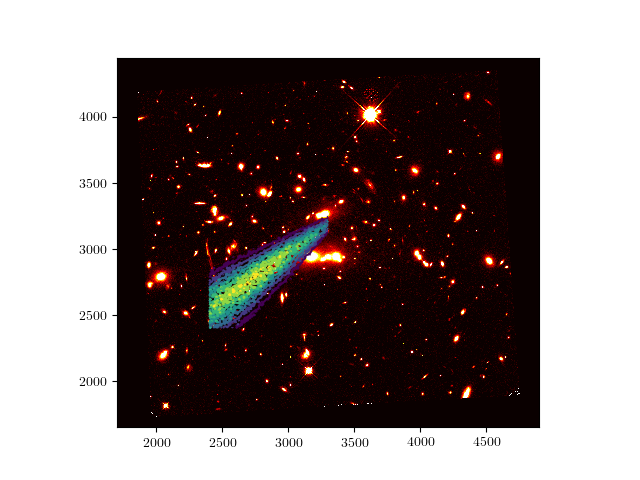
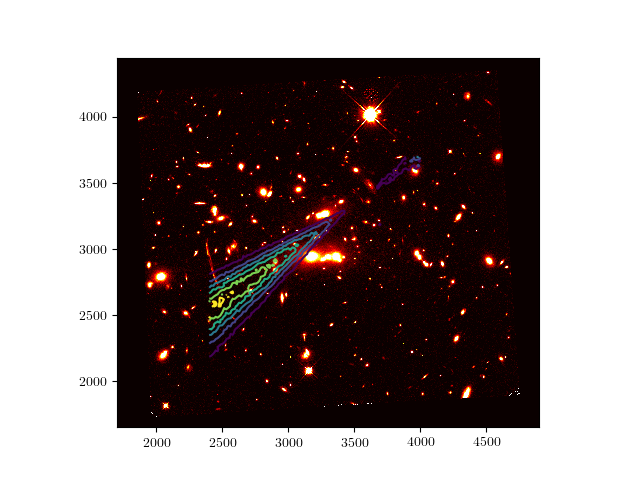
Fixed misunderstanind of xsource. Now fitting a 5 parameter model with xlens, ylens, theta, b, q. Optimising for the summed joint log-likelihoods of each image family. Correcting for redshift by calculating the angular distances and scaling the einstein radius by a factor of d_LS/d_S

Changed region(s): [[0.3125, 0.4375, 0.5312, 0.75], [0.5938, 0.3125, 0.6562, 0.4062]]

diff --git a/src/get_source_positions.py b/src/get_source_positions.py
@@ -5,10 +5,10 @@ from collections import OrderedDict
 from chainconsumer import ChainConsumer
 from src.mass_model import lnprob
 import matplotlib.pyplot as plt
-from image_overplot_contours import plot_image
+from src.image_overplot_contours import plot_image
 
 
-def run_mcmc(x_img, y_img, fig_dir, ndim=5, nwalkers=100, steps=200, prior_func=None, initial_params=None, fits_file=None, img_name=''):
+def run_mcmc(x_img, y_img, fig_dir, zl=None, zs=None, ndim=5, nwalkers=100, steps=200, prior_func=None, initial_params=None, fits_file=None, img_name=''):
 
     # Starting positions for the MCMC walkers sampled from a uniform distribution
     if initial_params is None:
@@ -23,7 +23,7 @@ def run_mcmc(x_img, y_img, fig_dir, ndim=5, nwalkers=100, steps=200, prior_func=
     p0 = np.transpose(list(initial.values()))
 
     # Run MCMC sampler with emcee
-    sampler = emcee.EnsembleSampler(nwalkers, ndim, lnprob, args=(x_img, y_img, prior_func))
+    sampler = emcee.EnsembleSampler(nwalkers, ndim, lnprob, args=(x_img, y_img, zl, zs, prior_func))
     pos, prob, state = sampler.run_mcmc(p0, steps)
 
     # Print chain
@@ -84,13 +84,13 @@ def lensed_quasar():
 
 def macs0451():
     fig_dir = 'Figures/MACS0451/'
-    nwalkers = 1000
-    steps = 2000
+    nwalkers = 1500
+    steps = 3000
 
-    # # ImageA Positions
-    # img_name = '_ImageA'
-    # x_img = np.array([2375.942110, 2378.5, 2379.816610, 2381.299088, 2384, 2385.927991, 2389.555816, 2457.694760, 2450.744242, 2442.833333, 2437.857924, 2433.064587, 2427.166666, 2424.099866, 2418.5, 2416.444081, 2462])
-    # y_img = np.array([3038.016677, 3024, 3012.367933, 2999.365293, 2983.5, 2970.435199, 2955.945319, 2737.545077, 2752.305849, 2766.166666, 2782.058508, 2795.293450, 2811.166666, 2823.079067, 2837.5, 2846.943113, 2728])
+    # ImageA Positions
+    img_name = '_ImageA'
+    x_img = np.array([2375.942110, 2378.5, 2379.816610, 2381.299088, 2384, 2385.927991, 2389.555816, 2457.694760, 2450.744242, 2442.833333, 2437.857924, 2433.064587, 2427.166666, 2424.099866, 2418.5, 2416.444081, 2462])
+    y_img = np.array([3038.016677, 3024, 3012.367933, 2999.365293, 2983.5, 2970.435199, 2955.945319, 2737.545077, 2752.305849, 2766.166666, 2782.058508, 2795.293450, 2811.166666, 2823.079067, 2837.5, 2846.943113, 2728])
 
     # # Image 1.1 Positions
     # img_name = '_Image1.1'
@@ -107,24 +107,24 @@ def macs0451():
     # x_img = np.array([3222.796159, 3227.700108])
     # y_img = np.array([3550.903781, 3542.180780])
 
-    # Image 3.1 Positions
-    img_name = '_Image3.1'
-    x_img = np.array([2933.063074, 3393.715824])
-    y_img = np.array([2943.400421, 3398.196336])
+    # # Image 3.1 Positions
+    # img_name = '_Image3.1'
+    # x_img = np.array([2933.063074, 3393.715824])
+    # y_img = np.array([2943.400421, 3398.196336])
 
 
 
     # Starting positions for the MCMC walkers sampled from a uniform distribution
     initial = OrderedDict()
-    initial[r'$x_{source}$'] = np.random.uniform(low=2400, high=3400, size=nwalkers)
-    initial[r'$y_{source}$'] = np.random.uniform(low=2400, high=3300, size=nwalkers)
+    initial[r'$x_{lens}$'] = np.random.uniform(low=2400, high=4000, size=nwalkers)
+    initial[r'$y_{lens}$'] = np.random.uniform(low=2000, high=3700, size=nwalkers)
     initial[r'$\theta$'] = np.random.uniform(low=-np.pi, high=np.pi, size=nwalkers)
-    initial[r'$b$'] = np.random.uniform(low=10, high=1500, size=nwalkers)
+    initial[r'$b$'] = np.random.uniform(low=10, high=2000, size=nwalkers)
     initial[r'$q$'] = np.random.uniform(low=0.2, high=1., size=nwalkers)
 
     def lnprior(pars):
         xsource, ysource, theta, b, q = pars
-        if (2400 < xsource < 3300) and (2400 < ysource < 3400) and (10 < b < 1500) and (-np.pi < theta < np.pi) and (0. < q < 1):
+        if (2400 < xsource < 4000) and (2000 < ysource < 3700) and (10 < b < 2000) and (-np.pi < theta < np.pi) and (0. < q < 1):
             return 0.0
         else:
             return -np.inf
@@ -136,67 +136,50 @@ def macs0451():
 
 def macs0451_multiple_sources():
     fig_dir = 'Figures/MACS0451/'
-    ndim, nwalkers = 17, 1000
-    steps = 2000
+    ndim, nwalkers = 5, 1500
+    steps = 3000
     img_name = '_multiple_sources'
+    zl = 0.43
 
-    x_img, y_img = {}, {}
+    x_img, y_img, zs = {}, {}, {}
     x_img['A'] = np.array([2375.942110, 2378.5, 2379.816610, 2381.299088, 2384, 2385.927991, 2389.555816, 2457.694760, 2450.744242, 2442.833333, 2437.857924, 2433.064587, 2427.166666, 2424.099866, 2418.5, 2416.444081, 2462])
     y_img['A'] = np.array([3038.016677, 3024, 3012.367933, 2999.365293, 2983.5, 2970.435199, 2955.945319, 2737.545077, 2752.305849, 2766.166666, 2782.058508, 2795.293450, 2811.166666, 2823.079067, 2837.5, 2846.943113, 2728])
+    zs['A'] = 2.01
 
     x_img['11'] = np.array([3557.178601, 3548.271886, 3541.407488])
     y_img['11'] = np.array([3363.943860, 3375.285957, 3385.515024])
+    zs['11'] = 2.06
 
-    x_img['62'] = np.array([3486.371962])
-    y_img['62'] = np.array([3069.305065])
+    # x_img['62'] = np.array([3486.371962])
+    # y_img['62'] = np.array([3069.305065])
+    # zl['62'] = 1.405
 
     x_img['41'] = np.array([3222.796159, 3227.700108])
     y_img['41'] = np.array([3550.903781, 3542.180780])
+    zs['41'] = 1.810
 
     x_img['31'] = np.array([2933.063074, 3393.715824])
     y_img['31'] = np.array([2943.400421, 3398.196336])
+    zs['31'] = 1.904
 
     # Starting positions for the MCMC walkers sampled from a uniform distribution
     initial = OrderedDict()
-    initial[r'${x_{source}}_A$'] = np.random.uniform(low=2700, high=4000, size=nwalkers)
-    initial[r'${y_{source}}_A$'] = np.random.uniform(low=2000, high=3700, size=nwalkers)
-    initial[r'$\theta_A$'] = np.random.uniform(low=-np.pi, high=np.pi, size=nwalkers)
-
-    initial[r'${x_{source}}_11$'] = np.random.uniform(low=2400, high=3300, size=nwalkers)
-    initial[r'${y_{source}}_11$'] = np.random.uniform(low=2400, high=3300, size=nwalkers)
-    initial[r'$\theta_11$'] = np.random.uniform(low=-np.pi, high=np.pi, size=nwalkers)
-
-    initial[r'${x_{source}}_62$'] = np.random.uniform(low=2400, high=3300, size=nwalkers)
-    initial[r'${y_{source}}_62$'] = np.random.uniform(low=2400, high=3300, size=nwalkers)
-    initial[r'$\theta_62$'] = np.random.uniform(low=-np.pi, high=np.pi, size=nwalkers)
-
-    initial[r'${x_{source}}_41$'] = np.random.uniform(low=2400, high=3400, size=nwalkers)
-    initial[r'${y_{source}}_41$'] = np.random.uniform(low=2400, high=3300, size=nwalkers)
-    initial[r'$\theta_41$'] = np.random.uniform(low=-np.pi, high=np.pi, size=nwalkers)
-
-    initial[r'${x_{source}}_31$'] = np.random.uniform(low=2400, high=3400, size=nwalkers)
-    initial[r'${y_{source}}_31$'] = np.random.uniform(low=2400, high=3300, size=nwalkers)
-    initial[r'$\theta_31$'] = np.random.uniform(low=-np.pi, high=np.pi, size=nwalkers)
-
-    initial[r'$b$'] = np.random.uniform(low=10, high=1500, size=nwalkers)
+    initial[r'$x_{lens}$'] = np.random.uniform(low=2400, high=4000, size=nwalkers)
+    initial[r'$y_{lens}$'] = np.random.uniform(low=2000, high=3700, size=nwalkers)
+    initial[r'$\theta$'] = np.random.uniform(low=-np.pi, high=np.pi, size=nwalkers)
+    initial[r'$b$'] = np.random.uniform(low=10, high=2000, size=nwalkers)
     initial[r'$q$'] = np.random.uniform(low=0.2, high=1., size=nwalkers)
 
     def lnprior(pars):
-        xsource_A, ysource_A, theta_A, xsource_11, ysource_11, theta_11, xsource_62, ysource_62, theta_62, \
-        xsource_41, ysource_41, theta_41, xsource_31, ysource_31, theta_31, b, q = pars
-        if (2700 < xsource_A < 4000) and (2000 < ysource_A < 3700)  and (-np.pi < theta_A < np.pi)\
-                and (2700 < xsource_11 < 4000)and (2400 < ysource_11 < 3300) and (-np.pi < theta_11 < np.pi) \
-                and (2700 < xsource_62 < 4000) and (2400 < ysource_62 < 3300) and (-np.pi < theta_62 < np.pi) \
-                and (2700 < xsource_41 < 4000) and (2400 < ysource_41 < 3400) and (-np.pi < theta_41 < np.pi) \
-                and (2700 < xsource_31 < 4000) and (2400 < ysource_31 < 3400) and (-np.pi < theta_31 < np.pi) \
-                and (10 < b < 1500) and (0. < q < 1):
+        xlens, ylens, theta, b, q = pars
+        if (2400 < xlens < 4000) and (2000 < ylens < 3700) and (-np.pi < theta < np.pi) and (10 < b < 2000) and (0. < q < 1):
             return 0.0
         else:
             return -np.inf
 
     fits_file = '/Users/danmuth/PycharmProjects/StrongLensing/data/MACS0451/MACS0451_F110W.fits'
 
-    run_mcmc(x_img, y_img, fig_dir, ndim=ndim, nwalkers=nwalkers, steps=steps, prior_func=lnprior, initial_params=initial, fits_file=fits_file, img_name=img_name)
+    run_mcmc(x_img, y_img, fig_dir, zl, zs, ndim=ndim, nwalkers=nwalkers, steps=steps, prior_func=lnprior, initial_params=initial, fits_file=fits_file, img_name=img_name)
 
 
 if __name__ == '__main__':

diff --git a/src/mass_model.py b/src/mass_model.py
@@ -1,41 +1,57 @@
 import numpy as np
+from astropy.cosmology import LambdaCDM
 
+
+def scale_einstein_radius(b, zl, zs, H0=70, Om0=0.3, Ode0=0.7):
+    if zl is None or zs is None:
+        return b
+
+    cosmo = LambdaCDM(H0=H0, Om0=Om0, Ode0=Ode0)
+    d_ls = cosmo.angular_diameter_distance_z1z2(zl, zs)
+    d_s = cosmo.angular_diameter_distance_z1z2(0, zs)
+    d_l = cosmo.angular_diameter_distance_z1z2(0, zl)
+
+    d = d_ls / d_s
+
+    return b / d.value
 
 
 def align_coords(x_in, y_in, pars, revert=False):
-    """ Change input coordinates (xin, yin) to be relative to the source (xmap, ymap) and then realign using theta. """
-    xsource, ysource, theta, b, q = pars
+    """ Change input coordinates (xin, yin) to be relative to the lens (xmap, ymap) and then realign using theta. """
+    xlens, ylens, theta, b, q = pars
 
     if revert is False:
-        xmap = x_in - xsource  # xmap is the image position wrt to Xsource at (0,0) in image plane
-        ymap = y_in - ysource
-        x = xmap * np.cos(theta) + ymap * np.sin(theta)  # Rotates coordinates from image plane to source plane
+        xmap = x_in - xlens  # xmap is the image position wrt to Xlens at (0,0) in image plane
+        ymap = y_in - ylens
+        x = xmap * np.cos(theta) + ymap * np.sin(theta)  # Rotates coordinates from image plane to lens plane
         y = ymap * np.cos(theta) - xmap * np.sin(theta)
     else:
-        xmap = x_in * np.cos(theta) - y_in * np.sin(theta)  # Rotates coordinates from source plane to image plane (Xsource is still at Origin)
+        xmap = x_in * np.cos(theta) - y_in * np.sin(theta)  # Rotates coordinates from lens plane to image plane (Xlens is still at Origin)
         ymap = y_in * np.cos(theta) + x_in * np.sin(theta)
-        x = xmap + xsource  # x is the deflection position but
-        y = ymap + ysource
+        x = xmap + xlens  # x is the deflection position but
+        y = ymap + ylens
 
     return x, y
 
 
-def deflections(x_img, y_img, pars):
+def deflections(x_img, y_img, zl, zs, pars):
     """ Calculate deflection using a mass model. Returns the calculated source positions. """
-    xsource, ysource = pars[0], pars[1]
+    xlens, ylens = pars[0], pars[1]
 
-    x, y = align_coords(x_img, y_img, pars, revert=False)  # Image positions rotated to source plane coordinates (wrt Xsource at (0,0))
-    xout, yout = sie_model(x, y, pars)  # Calculated deflection positions in source plane coordinates
-    x, y = align_coords(xout, yout, pars, revert=True)  # Calculated deflection positions in image plane coordinates (wrt Xsource at (0,0))
+    x, y = align_coords(x_img, y_img, pars, revert=False)  # Image positions rotated to lens plane coordinates (wrt Xlens at (0,0))
+    xout, yout = sie_model(x, y, zl, zs, pars)  # Calculated deflection positions in lens plane coordinates
+    x, y = align_coords(xout, yout, pars, revert=True)  # Calculated deflection positions in image plane coordinates (wrt Xlens at (0,0))
 
-    x_deflect, y_deflect = x - xsource, y - ysource  # Calculated deflection positions in image plane coordinates (actual pixel positions instead of wrt Xsource)
+    x_deflect, y_deflect = x - xlens, y - ylens  # Calculated deflection positions in image plane coordinates (actual pixel positions instead of wrt Xlens)
 
     return x_deflect, y_deflect
 
 
-def sie_model(x, y, pars):
+def sie_model(x, y, zl, zs, pars):
     """ Singular Isothermal Elliptical Mass model for lens. Returns the calculated source positions. """
-    xsource, ysource, theta, b, q = pars
+    xlens, ylens, theta, b, q = pars
+
+    b = scale_einstein_radius(b=b, zl=zl, zs=zs)
 
     r = np.sqrt(x ** 2 + y ** 2)
     if q == 1.:
@@ -49,42 +65,32 @@ def sie_model(x, y, pars):
     return xout, yout
 
 
-def pred_positions(x_img, y_img, pars):
+def pred_positions(x_img, y_img, zl, zs, pars):
     """ Predict the source positions by calculating the deflection. Returns the diff between img pos and deflections"""
     x, y = x_img.copy(), y_img.copy()
     x0, y0 = x_img.copy(), y_img.copy()
 
-    x_deflect, y_deflect = deflections(x, y, pars)  # Calculated deflection positions in image plane coordinates (pixel positions)
+    x_deflect, y_deflect = deflections(x, y, zl, zs, pars)  # Calculated deflection positions in image plane coordinates (pixel positions)
     x_src = x0 - x_deflect  # Calculated source positions in pixels
     y_src = y0 - y_deflect
-
 
     return x_src, y_src
 
 
-def lnlike(pars, x_img, y_img):
+def lnlike(pars, x_img, y_img, zl, zs):
     """ Calculate log-likelihood probability. Minimise the variance in the source position from all images. """
     if isinstance(x_img, dict):
         x_src, y_src = {}, {}
-        pars_dict = {}
         lnlike_dict = {}
 
-        xsource_A, ysource_A, theta_A, xsource_11, ysource_11, theta_11, xsource_62, ysource_62, theta_62, \
-        xsource_41, ysource_41, theta_41, xsource_31, ysource_31, theta_31, b, q = pars
-        pars_dict['A'] = xsource_A, ysource_A, theta_A, b, q
-        pars_dict['11'] = xsource_11, ysource_11, theta_11, b, q
-        pars_dict['62'] = xsource_62, ysource_62, theta_62, b, q
-        pars_dict['41'] = xsource_41, ysource_41, theta_41, b, q
-        pars_dict['31'] = xsource_31, ysource_31, theta_A, b, q
-
         for key in x_img:
-            x_src[key], y_src[key] = pred_positions(x_img[key], y_img[key], pars_dict[key])
+            x_src[key], y_src[key] = pred_positions(x_img[key], y_img[key], zl, zs[key], pars)
             lnlike_dict[key] = -0.5 * (x_src[key].var() + y_src[key].var())
 
         return sum(lnlike_dict.values())
 
     else:
-        x_src, y_src = pred_positions(x_img, y_img, pars)
+        x_src, y_src = pred_positions(x_img, y_img, zl, zs, pars)
 
         return -0.5 * (x_src.var() + y_src.var())
 
@@ -93,7 +99,7 @@ def lnprior(pars, prior_func=None):
     """ Log-prior for the parameters. """
 
     if prior_func is None:
-        xsource, ysource, theta, b, q = pars
+        xlens, ylens, theta, b, q = pars
 
         if (-np.pi < theta < np.pi) and (0. < q < 1):
             return 0.0
@@ -103,18 +109,18 @@ def lnprior(pars, prior_func=None):
         return prior_func(pars)
 
 
-def lnprob(pars, x_img, y_img, prior_func=None):
+def lnprob(pars, x_img, y_img, zl, zs, prior_func=None):
     """ Log-probability is the log-prior + log-likelihood. """
     lp = lnprior(pars, prior_func)
 
     if not np.isfinite(lp):
         return -np.inf
-    return lp + lnlike(pars, x_img, y_img)
+    return lp + lnlike(pars, x_img, y_img, zl, zs)
 
 
 # if __name__ == '__main__':
-#     xsource, ysource, theta, b, q = (53, 40.8, 1.55, 24.1, 0.954)
-#     pars = (xsource, ysource, theta, b, q)
+#     xlens, ylens, theta, b, q = (53, 40.8, 1.55, 24.1, 0.954)
+#     pars = (xlens, ylens, theta, b, q)
 #     x_img, y_img = np.array([69.3759]), np.array([28.1791])
 #     x_src, y_src = pred_positions(x_img, y_img, pars)
 #
